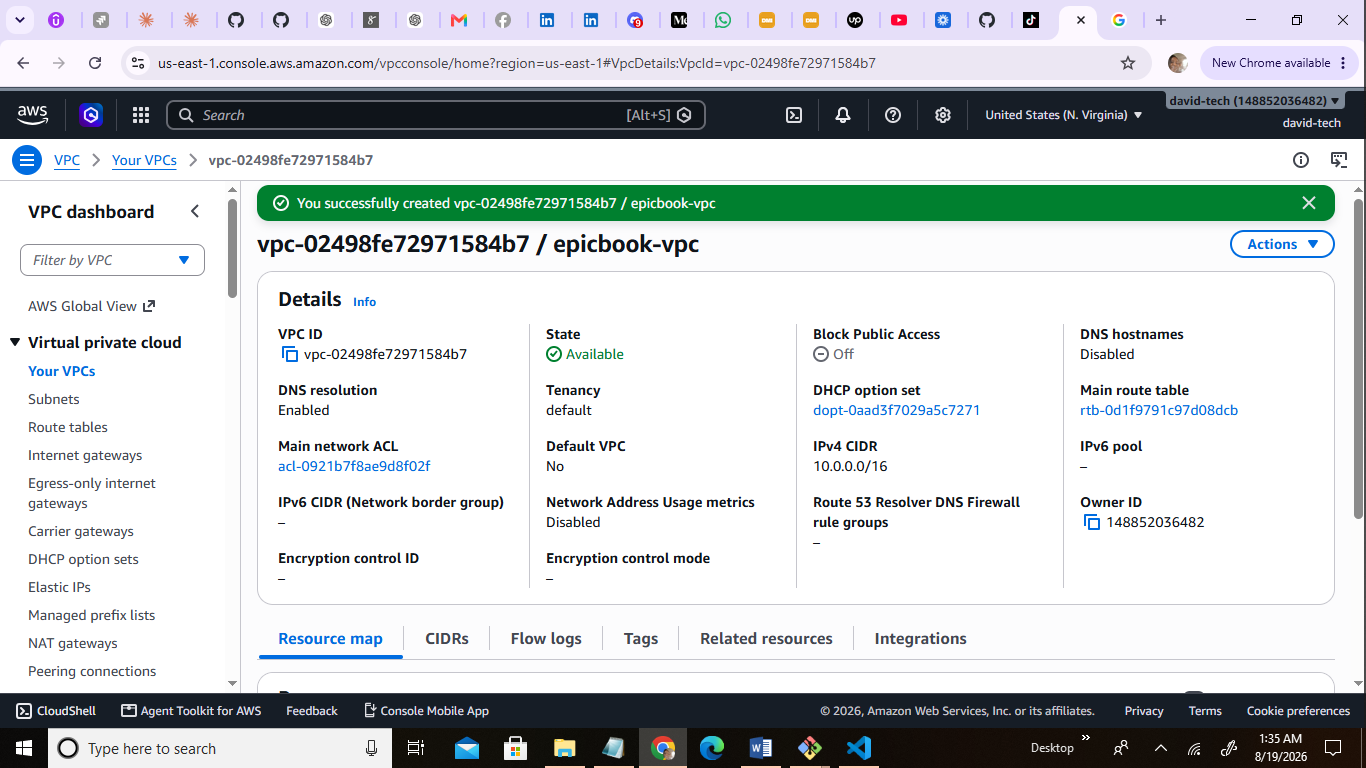
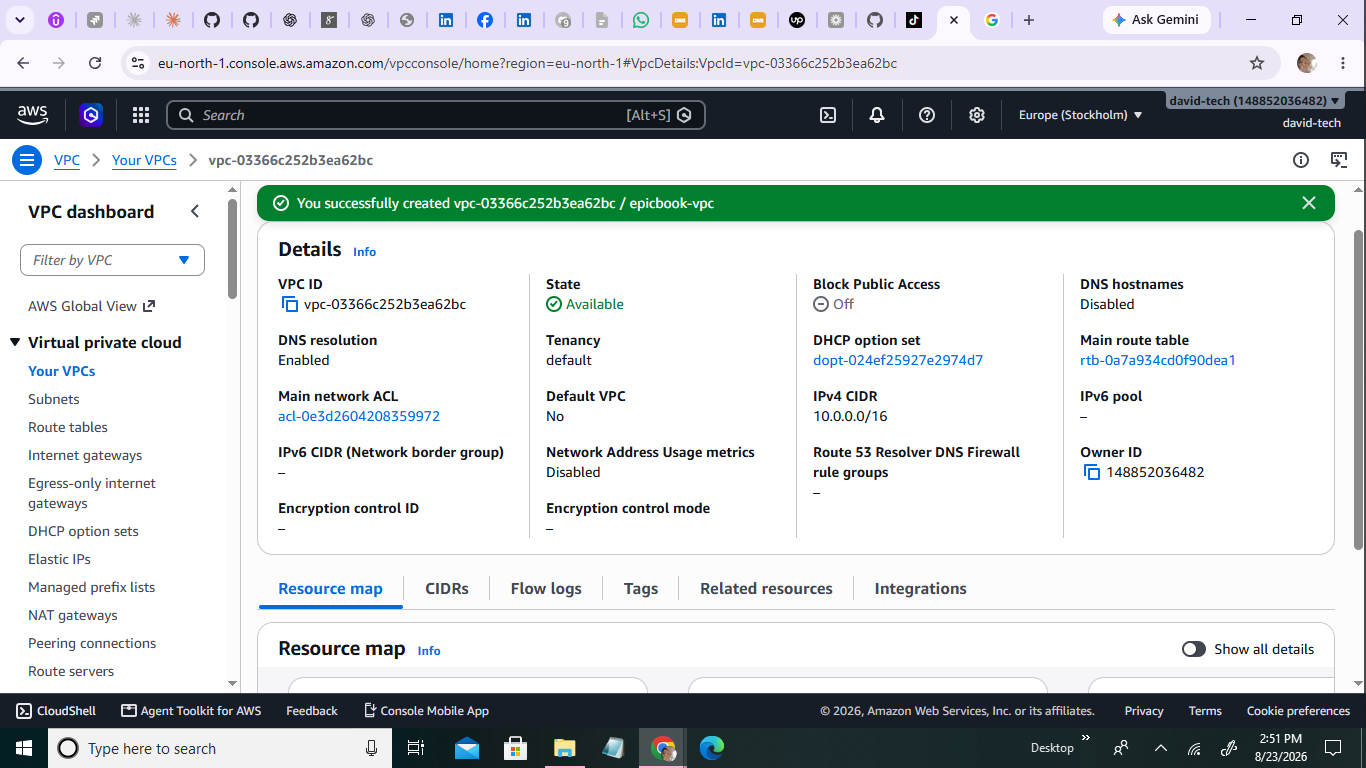
epibook update

diff --git a/week-06-aws-cloud/assignment-04-deploy-epicbook-on-ubuntu-vm-and-mysql-rds.md b/week-06-aws-cloud/assignment-04-deploy-epicbook-on-ubuntu-vm-and-mysql-rds.md
@@ -20,19 +20,21 @@ Create `epicbook-vpc` (10.0.0.0/16) with a public subnet (10.0.1.0/24) and a pri
 
 #### Screenshot 1 — VPC details showing CIDR 10.0.0.0/16
 
-Add your screenshot here.
+![](<screenshots/Assignment 4/Screenshot 1.png>).
 
 ---
 
 #### Screenshot 2 — Subnets list showing both subnets and their CIDRs
 
-Add your screenshot here.
+![](<screenshots/Assignment 4/Screenshot 2(a).png>).
+![](<screenshots/Assignment 4/Screenshot 2(b).png>).
+![](<screenshots/Assignment 4/Screenshot 2(c).png>).
 
 ---
 
 #### Screenshot 3 — Route table showing 0.0.0.0/0 → IGW and association with the public subnet
 
-Add your screenshot here.
+![](<screenshots/Assignment 4/Screenshot 3.png>).
 
 ---
 
@@ -46,13 +48,13 @@ Create `epicbook-ec2-sg` (SSH from your IP, HTTP/HTTPS public) and `epicbook-rds
 
 #### Screenshot 4 — EC2 security-group inbound rules showing ports and sources
 
-Add your screenshot here.
+![](<screenshots/Assignment 4/Screenshot 4.png>).
 
 ---
 
 #### Screenshot 5 — RDS security-group inbound rule showing MySQL 3306 allowed from the EC2 security group
 
-Add your screenshot here.
+![](<screenshots/Assignment 4/Screenshot 5.png>).
 
 ---
 
@@ -66,13 +68,13 @@ Launch an Ubuntu 20.04 instance in the public subnet with `epicbook-ec2-sg` atta
 
 #### Screenshot 6 — EC2 instance summary showing the public IPv4 address, subnet, and security group
 
-Add your screenshot here.
+![](<screenshots/Assignment 4/Screenshot 6.png>).
 
 ---
 
 #### Screenshot 7 — Terminal showing a successful SSH login with the `ubuntu@...` prompt
 
-Add your screenshot here.
+![](<screenshots/Assignment 4/Screenshot 7.png>).
 
 ---
 
@@ -86,19 +88,19 @@ Install Node.js, npm, Nginx, and the MySQL client on the instance, and confirm N
 
 #### Screenshot 8 — Output of `node -v` and `npm -v`
 
-Add your screenshot here.
+![](<screenshots/Assignment 4/Screenshot 8.png>).
 
 ---
 
 #### Screenshot 9 — Output of `systemctl status nginx`
 
-Add your screenshot here.
+![](<screenshots/Assignment 4/Screenshot 9.png>).
 
 ---
 
 #### Screenshot 10 — Output of `mysql --version`
 
-Add your screenshot here.
+![](<screenshots/Assignment 4/Screenshot 10.png>).
 
 ---
 
@@ -112,13 +114,13 @@ Create a private MySQL RDS instance in `epicbook-vpc` using a DB Subnet Group ov
 
 #### Screenshot 11 — RDS instance summary showing Publicly accessible: No
 
-Add your screenshot here.
+![](<screenshots/Assignment 4/Screenshot 11.png>).
 
 ---
 
 #### Screenshot 12 — Connectivity & security section showing the VPC and attached security group
 
-Add your screenshot here.
+![](<screenshots/Assignment 4/Screenshot 12.png>).
 
 ---
 
@@ -132,7 +134,7 @@ Connect to RDS from EC2, create the `epicbook` database, and import the provided
 
 #### Screenshot 13 — Terminal showing successful `SHOW TABLES;` output with tables listed
 
-Add your screenshot here.
+![](<screenshots/Assignment 4/Screenshot 13.png>).
 
 ---
 
@@ -146,19 +148,19 @@ Clone the EpicBook repository, install backend dependencies, configure `.env` wi
 
 #### Screenshot 14 — Terminal showing the repository cloned and the `ls` output
 
-Add your screenshot here.
+![](<screenshots/Assignment 4/Screenshot 14.png>).
 
 ---
 
 #### Screenshot 15 — Terminal showing the backend running, or `ss -tulpn` showing the port open
 
-Add your screenshot here.
+![](<screenshots/Assignment 4/Screenshot 15.png>).
 
 ---
 
 #### Screenshot 16 — `curl` output proving the backend responds; a 200, 301, or 404 response is acceptable if the service responds
 
-Add your screenshot here.
+![](<screenshots/Assignment 4/Screenshot 16.png>).
 
 ---
 
@@ -172,13 +174,13 @@ Copy the frontend files to the Nginx web root and configure Nginx to reverse-pro
 
 #### Screenshot 17 — `nginx -t` success output
 
-Add your screenshot here.
+![](<screenshots/Assignment 4/Screenshot 17.png>).
 
 ---
 
 #### Screenshot 18 — Nginx configuration snippet showing the `/api/` reverse proxy
 
-Add your screenshot here.
+![](<screenshots/Assignment 4/Screenshot 18.png>).
 
 ---
 
@@ -192,19 +194,19 @@ Verify the frontend loads publicly, the backend responds through Nginx, and EC2 
 
 #### Screenshot 19 — Browser showing the EpicBook application loaded with the public IP visible
 
-Add your screenshot here.
+![](<screenshots/Assignment 4/Screenshot 19.png>).
 
 ---
 
 #### Screenshot 20 — Terminal showing a successful API call through the public endpoint, such as `curl http://<EC2_PUBLIC_IP>/api/...`
 
-Add your screenshot here.
+![](<screenshots/Assignment 4/Screenshot 20.png>).
 
 ---
 
 #### Screenshot 21 — Terminal showing the successful database connectivity test using `SELECT 1;` or similar
 
-Add your screenshot here.
+![](<screenshots/Assignment 4/Screenshot 21.png>).
 
 ---
 
